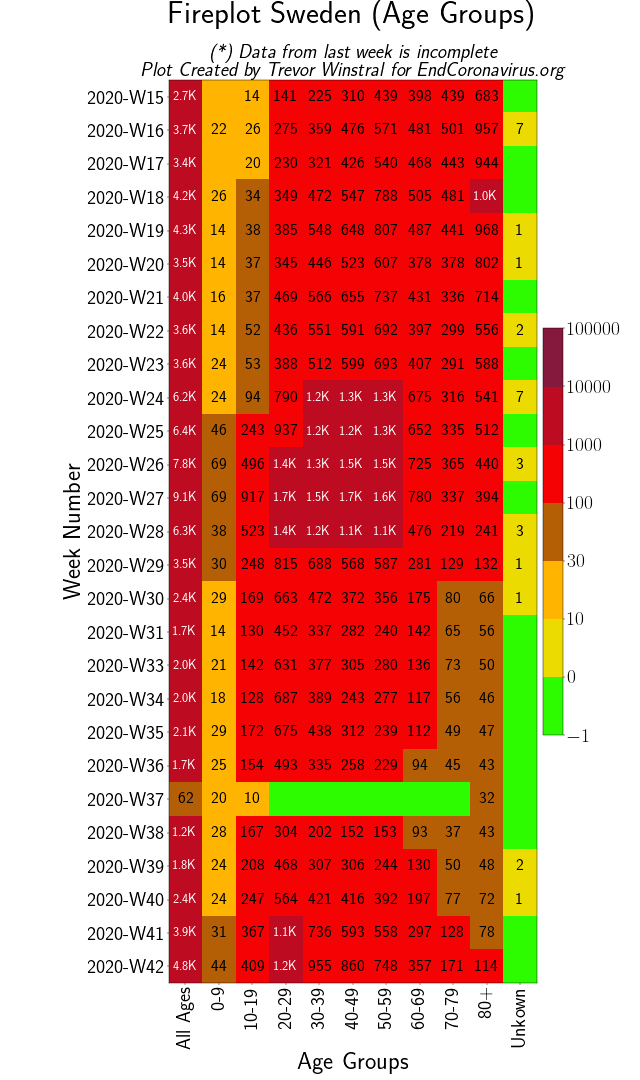
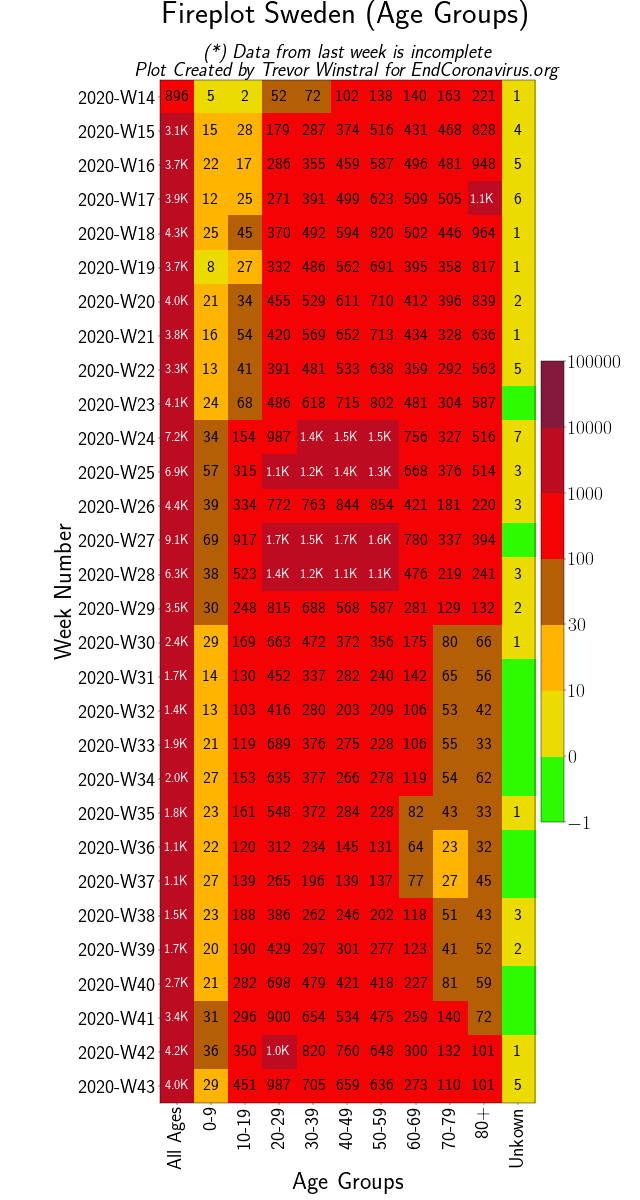
fixed sweden

Changed region(s): [[0.0938, 0.0, 0.9688, 1.0]]

diff --git a/fireplot.py b/fireplot.py
@@ -684,29 +684,9 @@ def Sweden_PC():
 def Sweden_Age():
     print('Creating Fireplot for Sweden (Age Groups)')
 
-    # Get File List
-    r = requests.get('https://api.github.com/repos/adamaltmejd/covid/git/trees/14a910ab0047035d1ad324b7e7a112e1973401f4')
-    j = json.loads(r.content.decode())
-    file_names = [i['path'] for i in j['tree']][1:85:7] + [i['path'] for i in j['tree']][85::5] # This should give us the totals so far, now we need to get the data from each xlsx file on that day
-    # We go by 7 then by 5 because they stop reporting on weekends
-
-    # Get the files and throw em together into one dataframe
-    df =pd.read_excel('https://raw.githubusercontent.com/adamaltmejd/covid/master/data/FHM/'+file_names[0], sheet_name='Totalt antal per åldersgrupp').rename(columns={'Totalt_antal_fall':file_names[0][-15:-5]})
-    df.index = df['Åldersgrupp']
-    df = df[[file_names[0][-15:-5]]]
-    the_big_dict= df.to_dict()
-    for fname in file_names[1:]:
-        # Using dicts here should make this slightly faster
-        date=fname[-15:-5]
-        df_temp = pd.read_excel('https://raw.githubusercontent.com/adamaltmejd/covid/master/data/FHM/'+fname, sheet_name='Totalt antal per åldersgrupp').rename(columns={'Totalt_antal_fall':date})
-        df_temp.index = df_temp['Åldersgrupp']
-        the_big_dict[date] = df_temp.to_dict()[date]
-        #df = df.join(df_temp[[fname[-15:-5]]])
-
-    df=pd.DataFrame(data=the_big_dict).fillna(0)
-    # Some formatting
-    df.loc['80+'] = df.loc[['Ålder_80_90', 'Ålder_90_plus', 'Ålder_80_89']].sum()
-    df = df.T.drop(['Ålder_80_90', 'Ålder_90_plus', 'Ålder_80_89'], axis=1).diff().fillna(0).astype(int)
+    df = pd.read_csv('https://raw.githubusercontent.com/necsi/Sweden_Age_Data/master/Age_Stratified.csv')
+    df.index = df['Date']
+    df = df.drop(['Ålder_80_90', 'Ålder_90_plus', 'Ålder_80_89', 'Date'], axis=1).diff().fillna(0).astype(int)
     df[df.columns] = df[df.columns].applymap(negative_to_zero)
     df = df[['Ålder_0_9',  'Ålder_10_19',  'Ålder_20_29',  'Ålder_30_39',  'Ålder_40_49',  'Ålder_50_59',  'Ålder_60_69',  'Ålder_70_79', '80+',  'Uppgift saknas']]
     renamer = lambda s: s.replace('Ålder_','').replace('_','-').replace('Uppgift saknas','Unkown')
@@ -716,9 +696,7 @@ def Sweden_Age():
     df['WOY'] = pd.to_datetime(df.index, format='%Y-%m-%d').weekofyear.astype(str)
     strptm = lambda s: datetime.strptime('2020-'+s+'-1', "%Y-%W-%w")
     df['WOY'] = df['WOY'].map(strptm).astype(str)
-    #print(df)
-    df.index=df['WOY']
-    df.drop('WOY', axis=1, inplace=True)
+    df =df.groupby(by='WOY').sum()
     #print(df)
 
     fireplot(df, country='Sweden_By_Age', Title='Fireplot Sweden (Age Groups)', grouped_by_week=True, caption=r'(*) Data from last week is incomplete \\ Plot Created by Trevor Winstral for EndCoronavirus.org', xlabel='Age Groups', legend=True, age_groups=True)
@@ -830,10 +808,10 @@ if __name__ == "__main__":
         #World()
         #Switzerland()
         #Switzerland_PC()
-        Zurich()
+        #Zurich()
         #Sweden()
         #Sweden_PC()
-        #Sweden_Age()
+        Sweden_Age()
         #Australia()
         #Australia_PC()
 

diff --git a/Figures/README.md b/Figures/README.md
@@ -1,6 +1,6 @@
 # Index for Images
 ![Fireplotting](https://github.com/TrevorWinstral/Fireplots/workflows/Fireplotting%20With%20Compression/badge.svg) \
-Repository to generate fireplots every week for ECV. Click [here](https://TrevorWinstral.github.io/Fireplots) to get list of links to raw files, [here] for daily updated files. Click the link to jump to the image. \
+Repository to generate fireplots every week for ECV. Click [here](https://TrevorWinstral.github.io/Fireplots) to get list of links to raw files, [here](https://TrevorWinstral.github.io/Fireplots/Uncompressed) for daily updated files. Click the link to jump to the image. \
 [Australian Provinces](#australia) \
 [Brazilian States](#brazil) \
 [Czechia](#czechia) \

diff --git a/Uncompressed/README.md b/Uncompressed/README.md
@@ -1,5 +1,5 @@
 # Index for Images
-![Fireplotting](https://github.com/TrevorWinstral/Fireplots/workflows/Fireplotting%20With%20Compression/badge.svg/badge.svg) \
+![Fireplotting](https://github.com/TrevorWinstral/Fireplots/workflows/Fireplotting/badge.svg) \
 Repository to generate fireplots every day for ECV. Click [here](https://TrevorWinstral.github.io/Fireplots) to get list of links to raw files. Click the link to jump to the image. \
 [Australian Provinces](#australia) \
 [Brazilian States](#brazil) \
